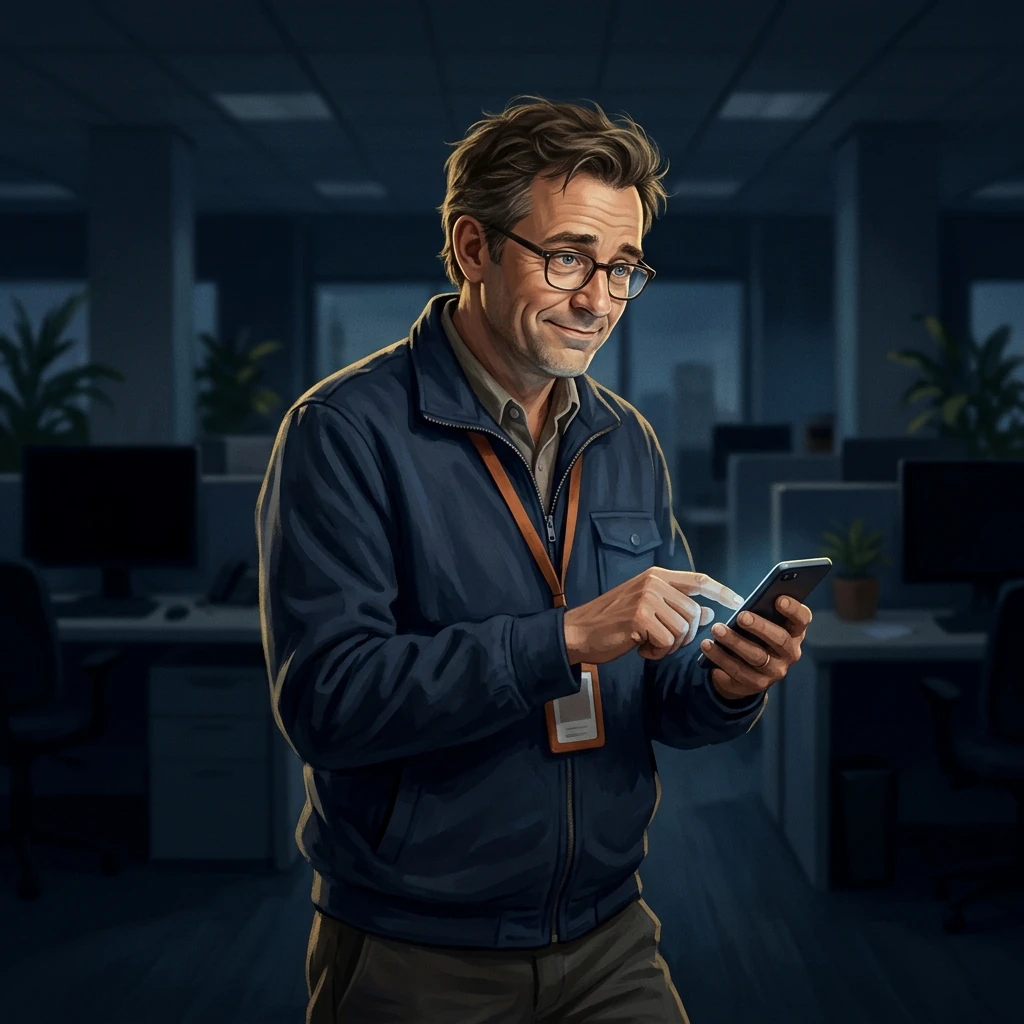
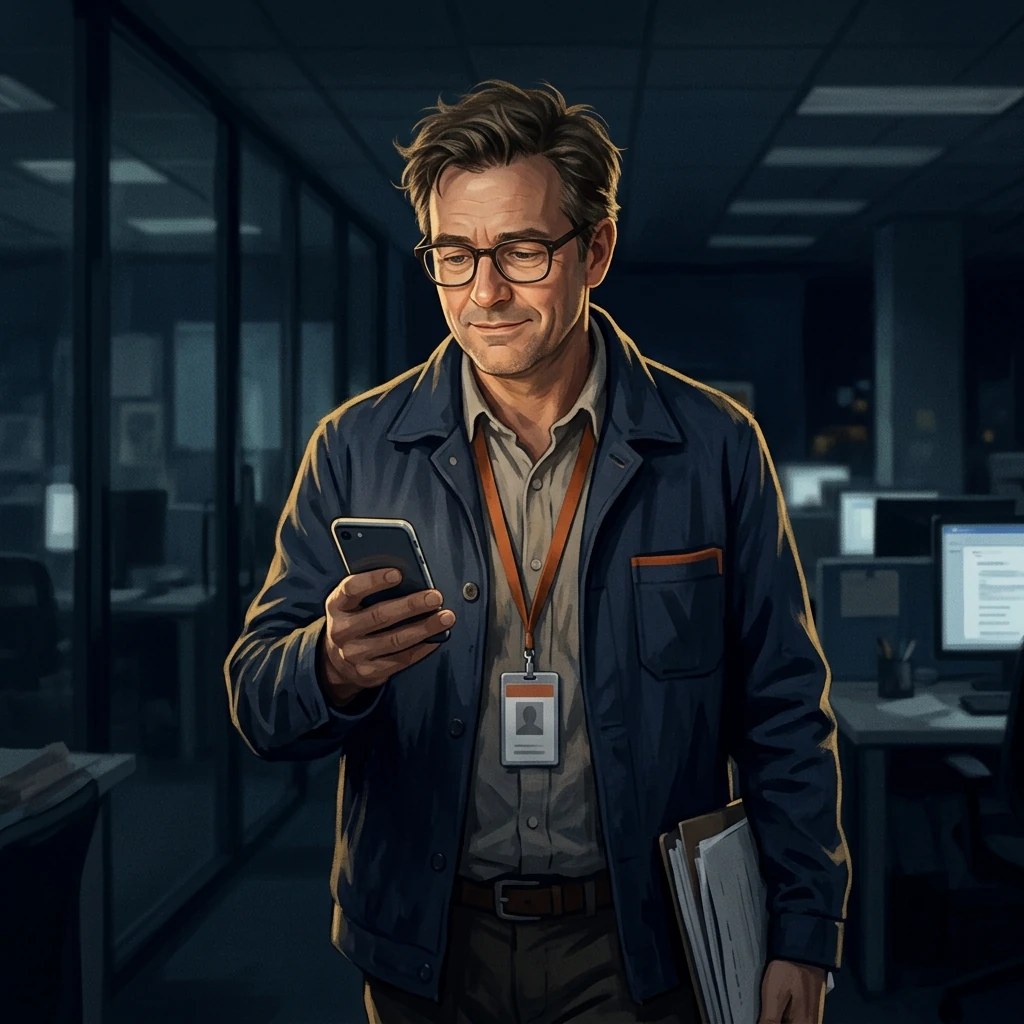
illustration : management-manager-proximite (image, registre, art:)

diff --git a/src/data/management.ts b/src/data/management.ts
@@ -153,6 +153,7 @@ export const MANAGEMENT_CARDS: PlanqueCard[] = [
     },
     attacks: [{ name: 'Deadline', cost: ['MANAGEMENT', 'INCOLORE'], damage: 50, text: 'Le Planqué adverse tombe sur une échéance impossible. Elle a été fixée par courriel, sans accusé de lecture.' }],
     flavor: 'Il manage par mail. Il ne lit pas les réponses.',
+    art: 'management-manager-proximite.webp'
   }),
   base({
     id: 'management-responsable-projet',

diff --git a/design/illustrations/README.md b/design/illustrations/README.md
@@ -217,3 +217,4 @@ au lieu d'afficher un aplat en silence. Le champ `art` reste le **nom de fichier
 - 2026-10-26 · `management-manager-proximite` · modèle `NARWHAL` · graine `1044749969` · `management-manager-proximite.webp`
 - 2026-10-26 · `atelier-responsable-pole` · modèle `NARWHAL` · graine `1800782826` · `atelier-responsable-pole.webp`
 - 2026-10-26 · `atelier-opticien` · modèle `NARWHAL` · graine `1117579981` · `atelier-opticien.webp`
+- 2026-10-26 · `management-manager-proximite` · modèle `NARWHAL` · graine `765017061` · `management-manager-proximite.webp`
